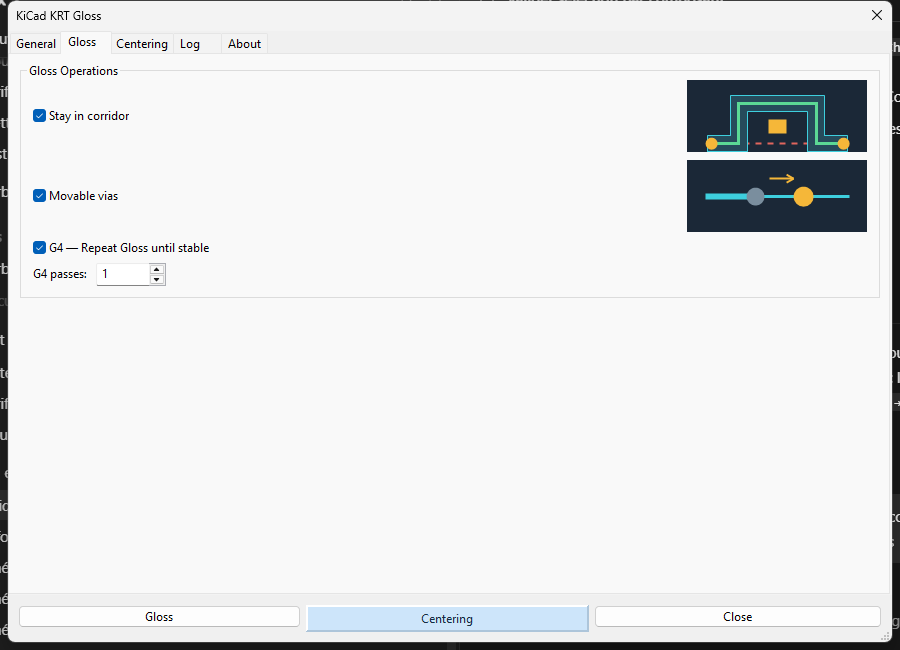
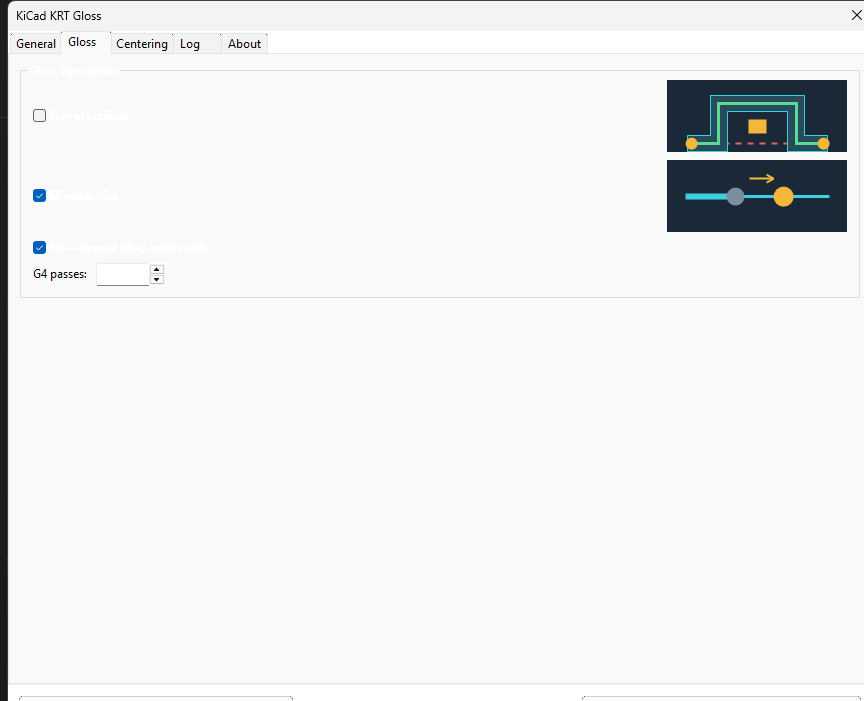
docs: show every settings dialog tab

diff --git a/README.md b/README.md
@@ -13,66 +13,48 @@ KiCad KRGloss**.
 
 ## Choose the scope
 
-<table>
-<tr>
-<td width="58%"><img src="docs/assets/dialog-general.png" alt="General tab with the net list and elementary-branch scope"></td>
-<td>
-<ol>
-<li>Check the nets to process.</li>
-<li>Click a row to highlight its remembered scope in KiCad.</li>
-<li>Use <strong>Add</strong> or <strong>Replace</strong> to import the current
-KiCad selection; <strong>Clear</strong> empties the list.</li>
-</ol>
-<p>With <strong>Use elementary branches</strong> enabled, a selected track
-imports its complete branch up to pads, free ends or junctions. A row showing
-<code>n EB</code> contains remembered branches; an empty EB cell means the
-whole net. Disable the option to always process complete nets.</p>
-</td>
-</tr>
-</table>
+![General tab — full dialog with net list and elementary-branch scope.](docs/assets/dialog-general.png)
+
+1. Check the nets to process.
+2. Click a row to highlight its remembered scope in KiCad.
+3. Use **Add** or **Replace** to import the current KiCad selection; **Clear**
+   empties the list.
+
+With **Use elementary branches** enabled, a selected track imports its complete
+branch up to pads, free ends or junctions. A row showing `n EB` contains
+remembered branches; an empty EB cell means the whole net. Disable the option
+to always process complete nets.
 
 If nothing is selected in KiCad, the dialog opens with no checked net. The
 action buttons remain disabled until at least one net is checked.
 
 ## Gloss
 
-<table>
-<tr>
-<td width="58%"><img src="docs/assets/dialog-gloss.png" alt="Gloss tab"></td>
-<td>
-<ul>
-<li><strong>Stay in corridor</strong> prevents a movement from crossing or
-jumping over an obstacle.</li>
-<li><strong>Movable vias</strong> allows eligible unlocked vias to move.</li>
-<li><strong>Repeat Gloss until stable</strong> requests additional passes, up
-to the displayed G4 limit.</li>
-</ul>
-<p>Click <strong>Gloss</strong>. A valid route may remain unchanged when no safe
-improvement exists.</p>
-</td>
-</tr>
-</table>
+![Gloss tab — full dialog with corridor, movable-via and repeat-pass options.](docs/assets/dialog-gloss.png)
+
+- **Stay in corridor** prevents a movement from crossing or jumping over an
+  obstacle.
+- **Movable vias** allows eligible unlocked vias to move.
+- **Repeat Gloss until stable** requests additional passes, up to the displayed
+  G4 limit.
+
+Click **Gloss**. A valid route may remain unchanged when no safe improvement
+exists.
 
 ## Centering and Proximity max
 
-<table>
-<tr>
-<td width="58%"><img src="docs/assets/dialog-centering.png" alt="Centering tab with Proximity max"></td>
-<td>
-<p>To set <strong>Proximity max</strong> from the board:</p>
-<ol>
-<li>In KiCad, select <strong>exactly two pads</strong>.</li>
-<li>Open the <strong>Centering</strong> tab.</li>
-<li>Click <strong>Refresh</strong>.</li>
-<li>Check the centre-to-centre distance displayed in
-<strong>Proximity max</strong>.</li>
-<li>Check the target net and click <strong>Centering</strong>.</li>
-</ol>
-<p>The two-pad selection is used only to measure Proximity max. The checked net
-or remembered elementary branches define which track is processed.</p>
-</td>
-</tr>
-</table>
+![Centering tab — full dialog with the Proximity max control.](docs/assets/dialog-centering.png)
+
+To set **Proximity max** from the board:
+
+1. In KiCad, select **exactly two pads**.
+2. Open the **Centering** tab.
+3. Click **Refresh**.
+4. Check the centre-to-centre distance displayed in **Proximity max**.
+5. Check the target net and click **Centering**.
+
+The two-pad selection is used only to measure Proximity max. The checked net
+or remembered elementary branches define which track is processed.
 
 Proximity max is the largest pad centre-to-centre spacing accepted when
 detecting a gate. Centering first runs a corridor-constrained Gloss, then moves
@@ -81,10 +63,18 @@ after Centering.
 
 ## Review the result
 
+### Log tab
+
+![Log tab — full dialog with execution output and Copy Log / Clear Log controls.](docs/assets/dialog-log.png)
+
 The **Log** tab records the options, net names and result. The plugin also
 creates or reuses **TrackGloss Changes** on a free User layer: old copper is
 dashed and new copper is solid. This layer is a visual aid, not a replacement
 for KiCad's visual inspection and DRC.
+
+### About tab
+
+![About tab — full dialog with version and author information.](docs/assets/dialog-about.png)
 
 Gloss and Centering modify existing routing only. Locked or protected copper,
 arcs, differential pairs and constrained tracks remain protected.
